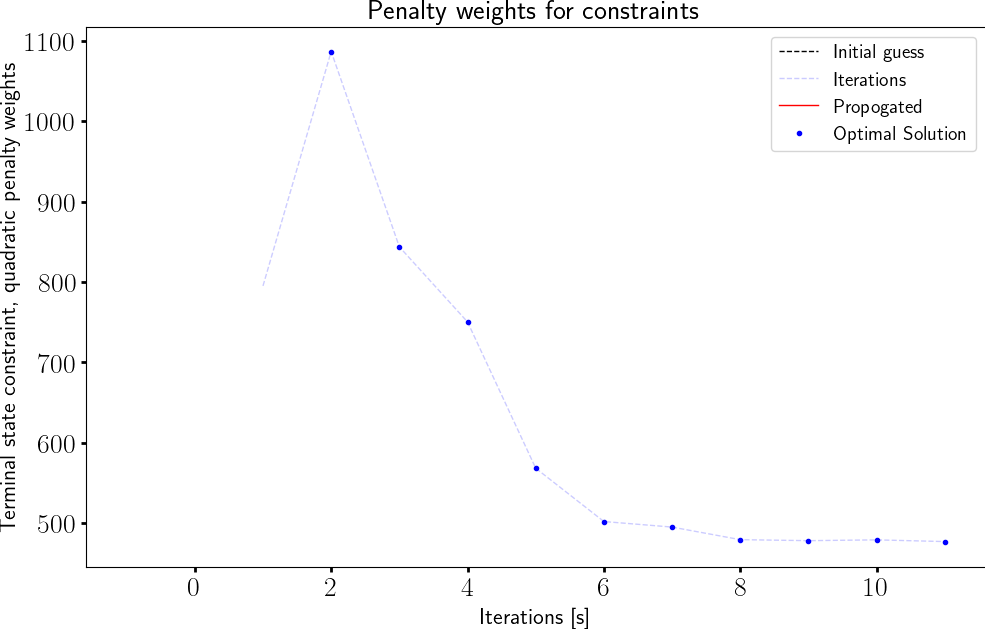
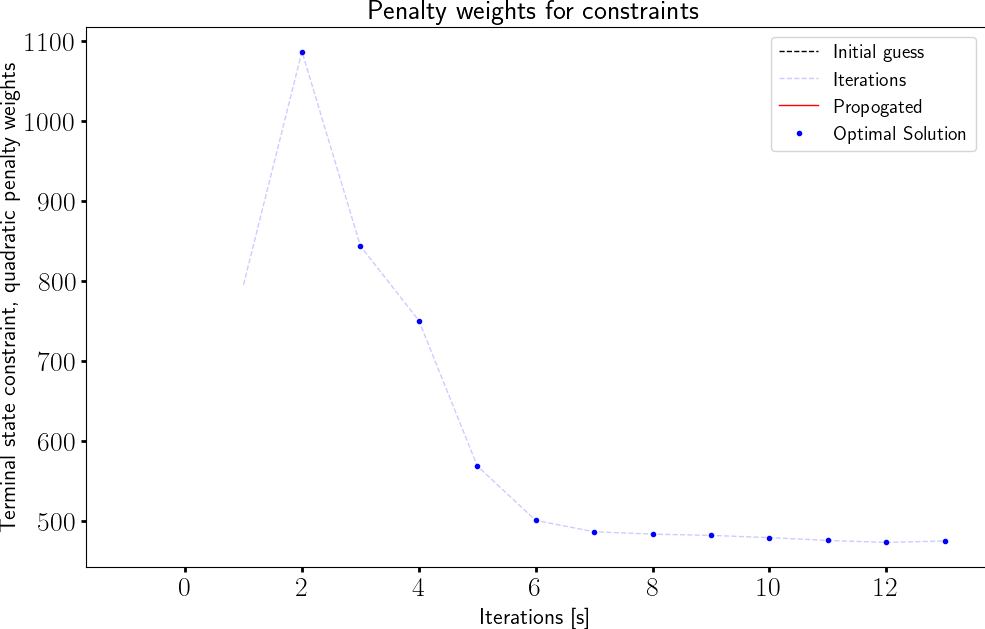
fixed vtol notebook by removing cvxpy subproblem copy in conv data, reverted back to stable method yaml

diff --git a/src/trajopt/core/modules/method/hyperparameters.py b/src/trajopt/core/modules/method/hyperparameters.py
@@ -138,7 +138,7 @@ def configure_penalty_weights(problem):
                     method.weights["dual_minus"] += method.weights["eps_nonzero1"]
 
     ### ctcs convergence adjustments ###
-    method.weights["w_ctcs"] = 1.5
+    method.weights["w_ctcs"] = 2.0
 
 
 # -------------- PENALTIES ----------------------------------------------------------------------------------------

diff --git a/src/trajopt/core/modules/method/convergence.py b/src/trajopt/core/modules/method/convergence.py
@@ -170,7 +170,6 @@ def check_convergence_tolerance(problem, subprob, iter_record):
 
     # --- Load convergence data
     conv_data = iter_record["conv_data"]
-    soln      = conv_data["soln"]
 
     # --- Extract dimensions from Subproblem
     n = subprob.n

diff --git a/src/trajopt/core/modules/method/scp.py b/src/trajopt/core/modules/method/scp.py
@@ -799,7 +799,6 @@ class Subproblem:
  
         # Convergence data (buffers, defects, TR cost, ref cost)
         conv = {}
-        conv["soln"]    = self.subproblem
         conv["vb_ineq"] = tools.get_val(self.vb_ineq,  rows=self.N, cols=self.n_ineq) if self.vb_ineq  is not None else np.zeros((self.N,self.n_ineq))
         conv["vb_term"] = tools.get_val(self.vb_term,  rows=1, cols=self.n_term_total) if self.vb_term  is not None else np.zeros((1, self.n_term_total))
         conv["vb_dyn"]  = tools.get_val(self.vb_dyn_p, rows=self.N-1,  cols=self.n_dyn) - tools.get_val(self.vb_dyn_m, rows=self.N-1, cols=self.n_dyn)